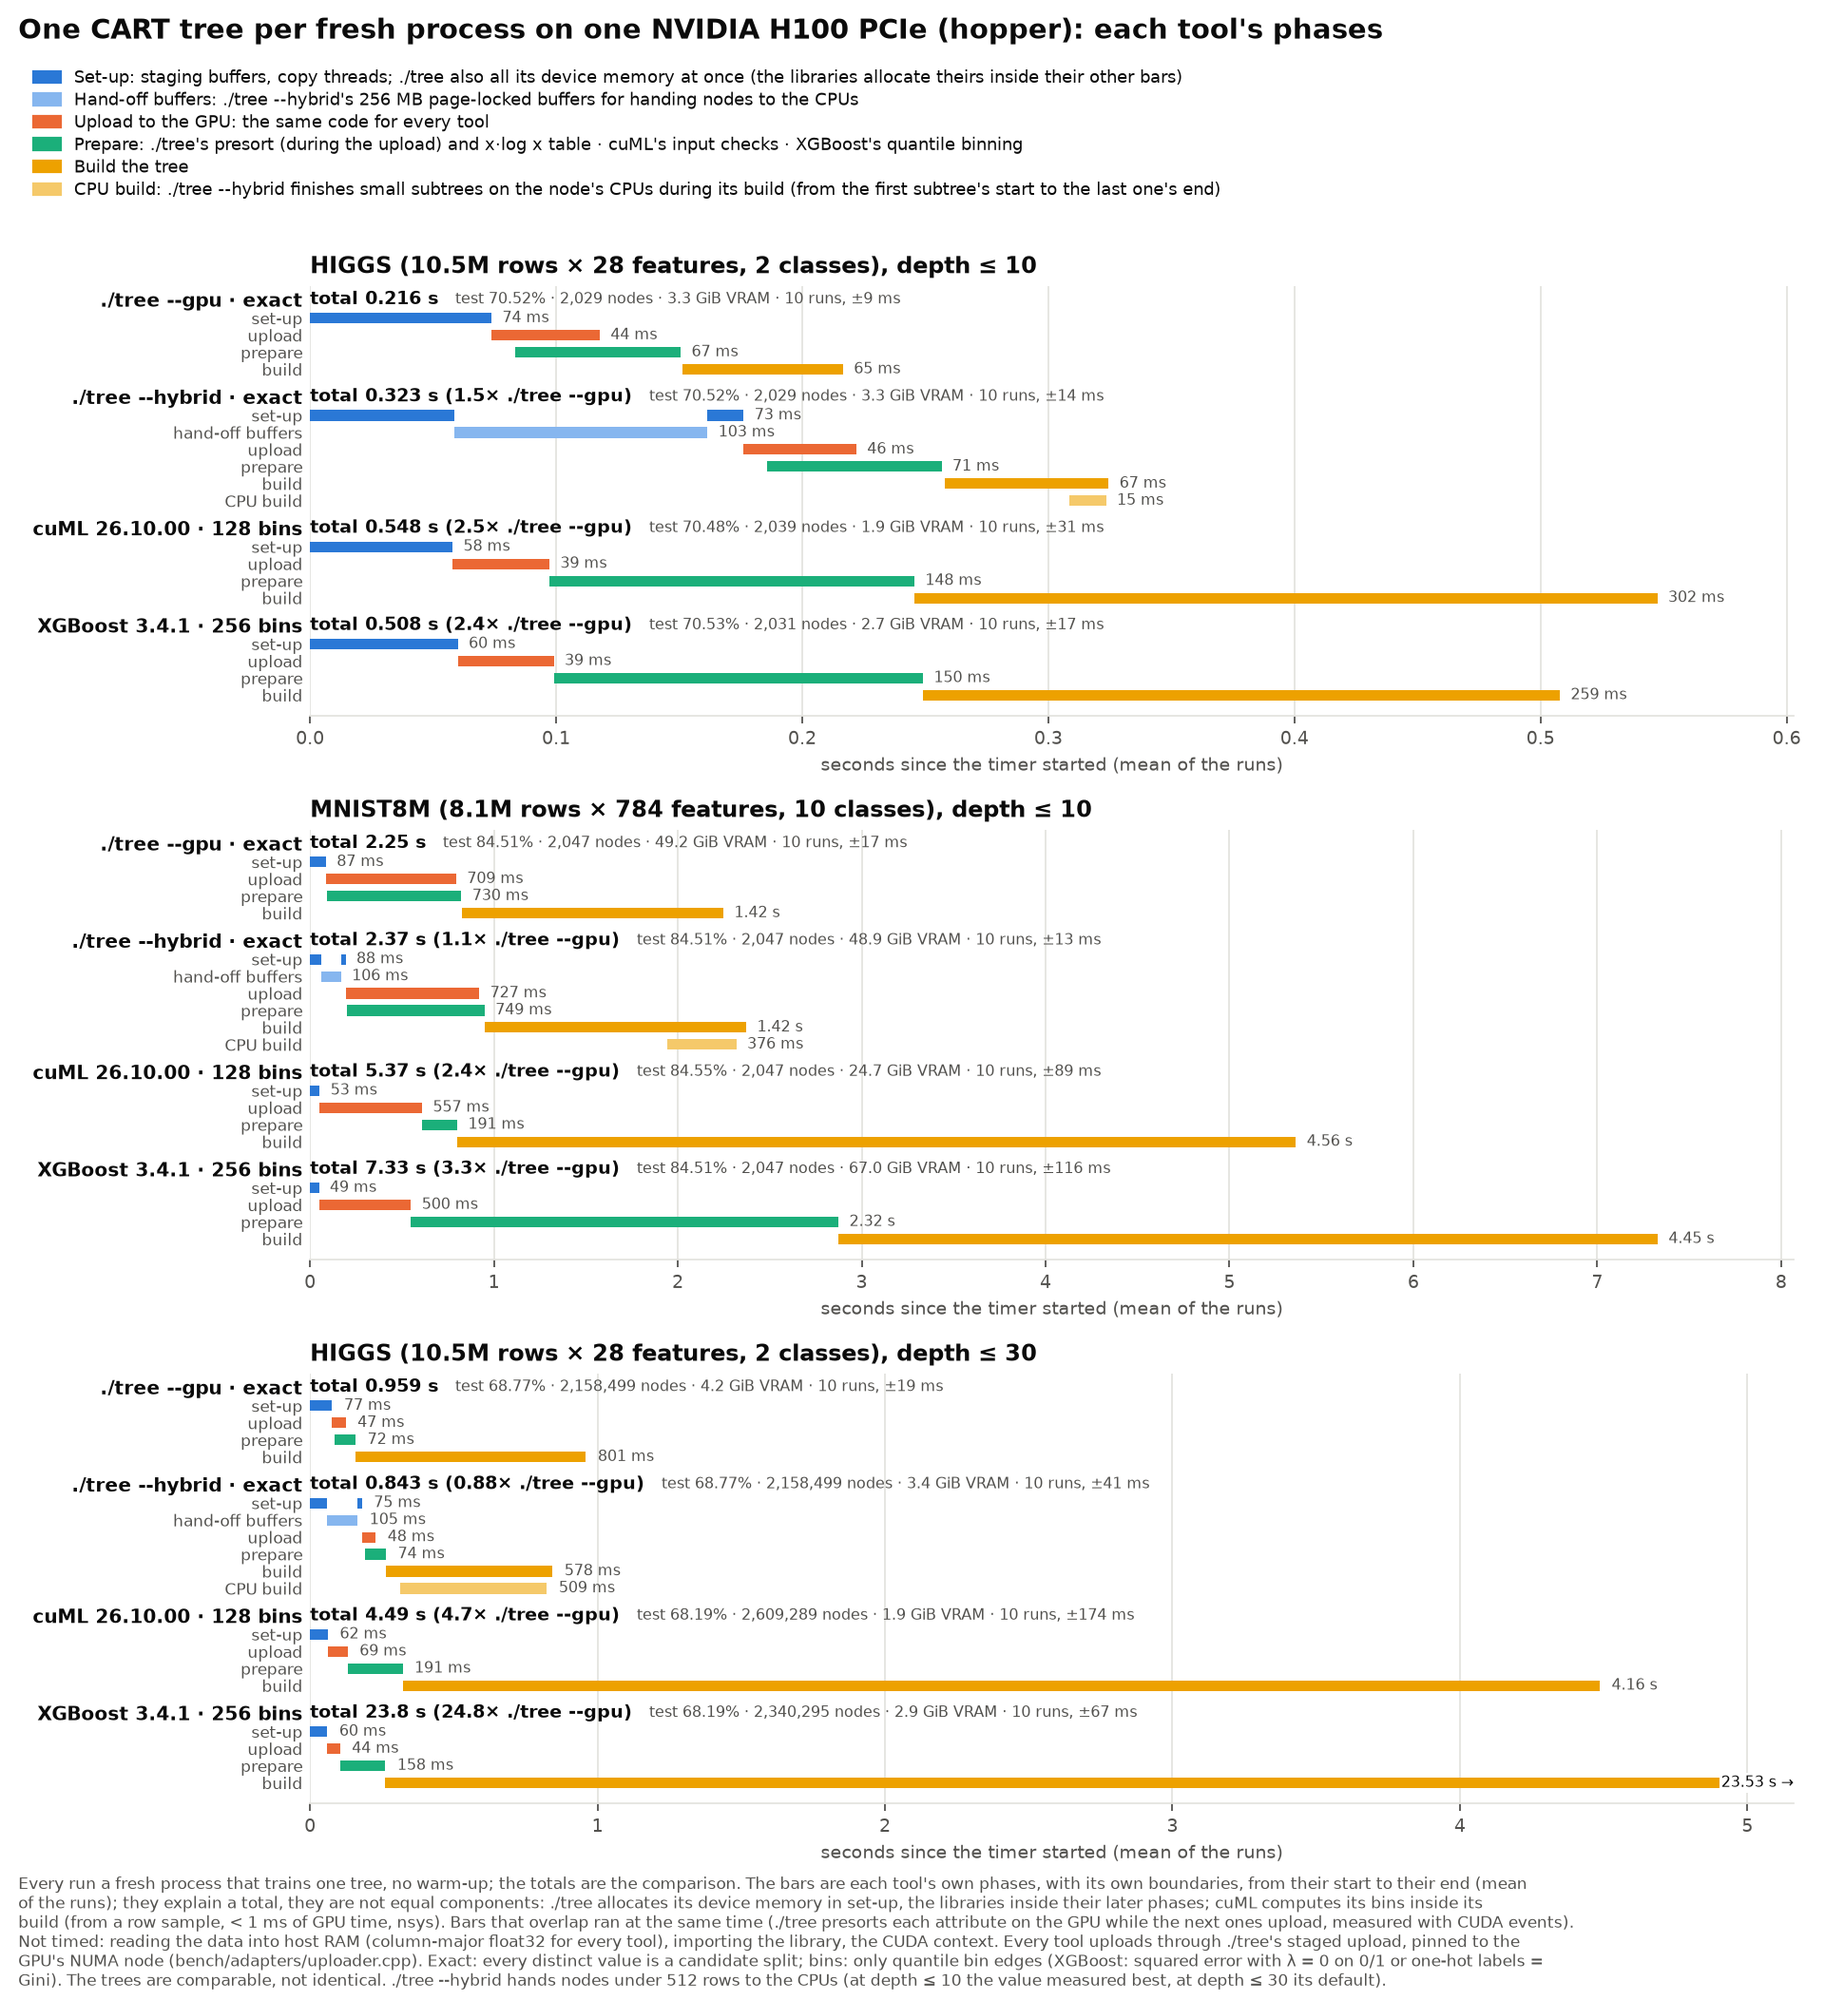
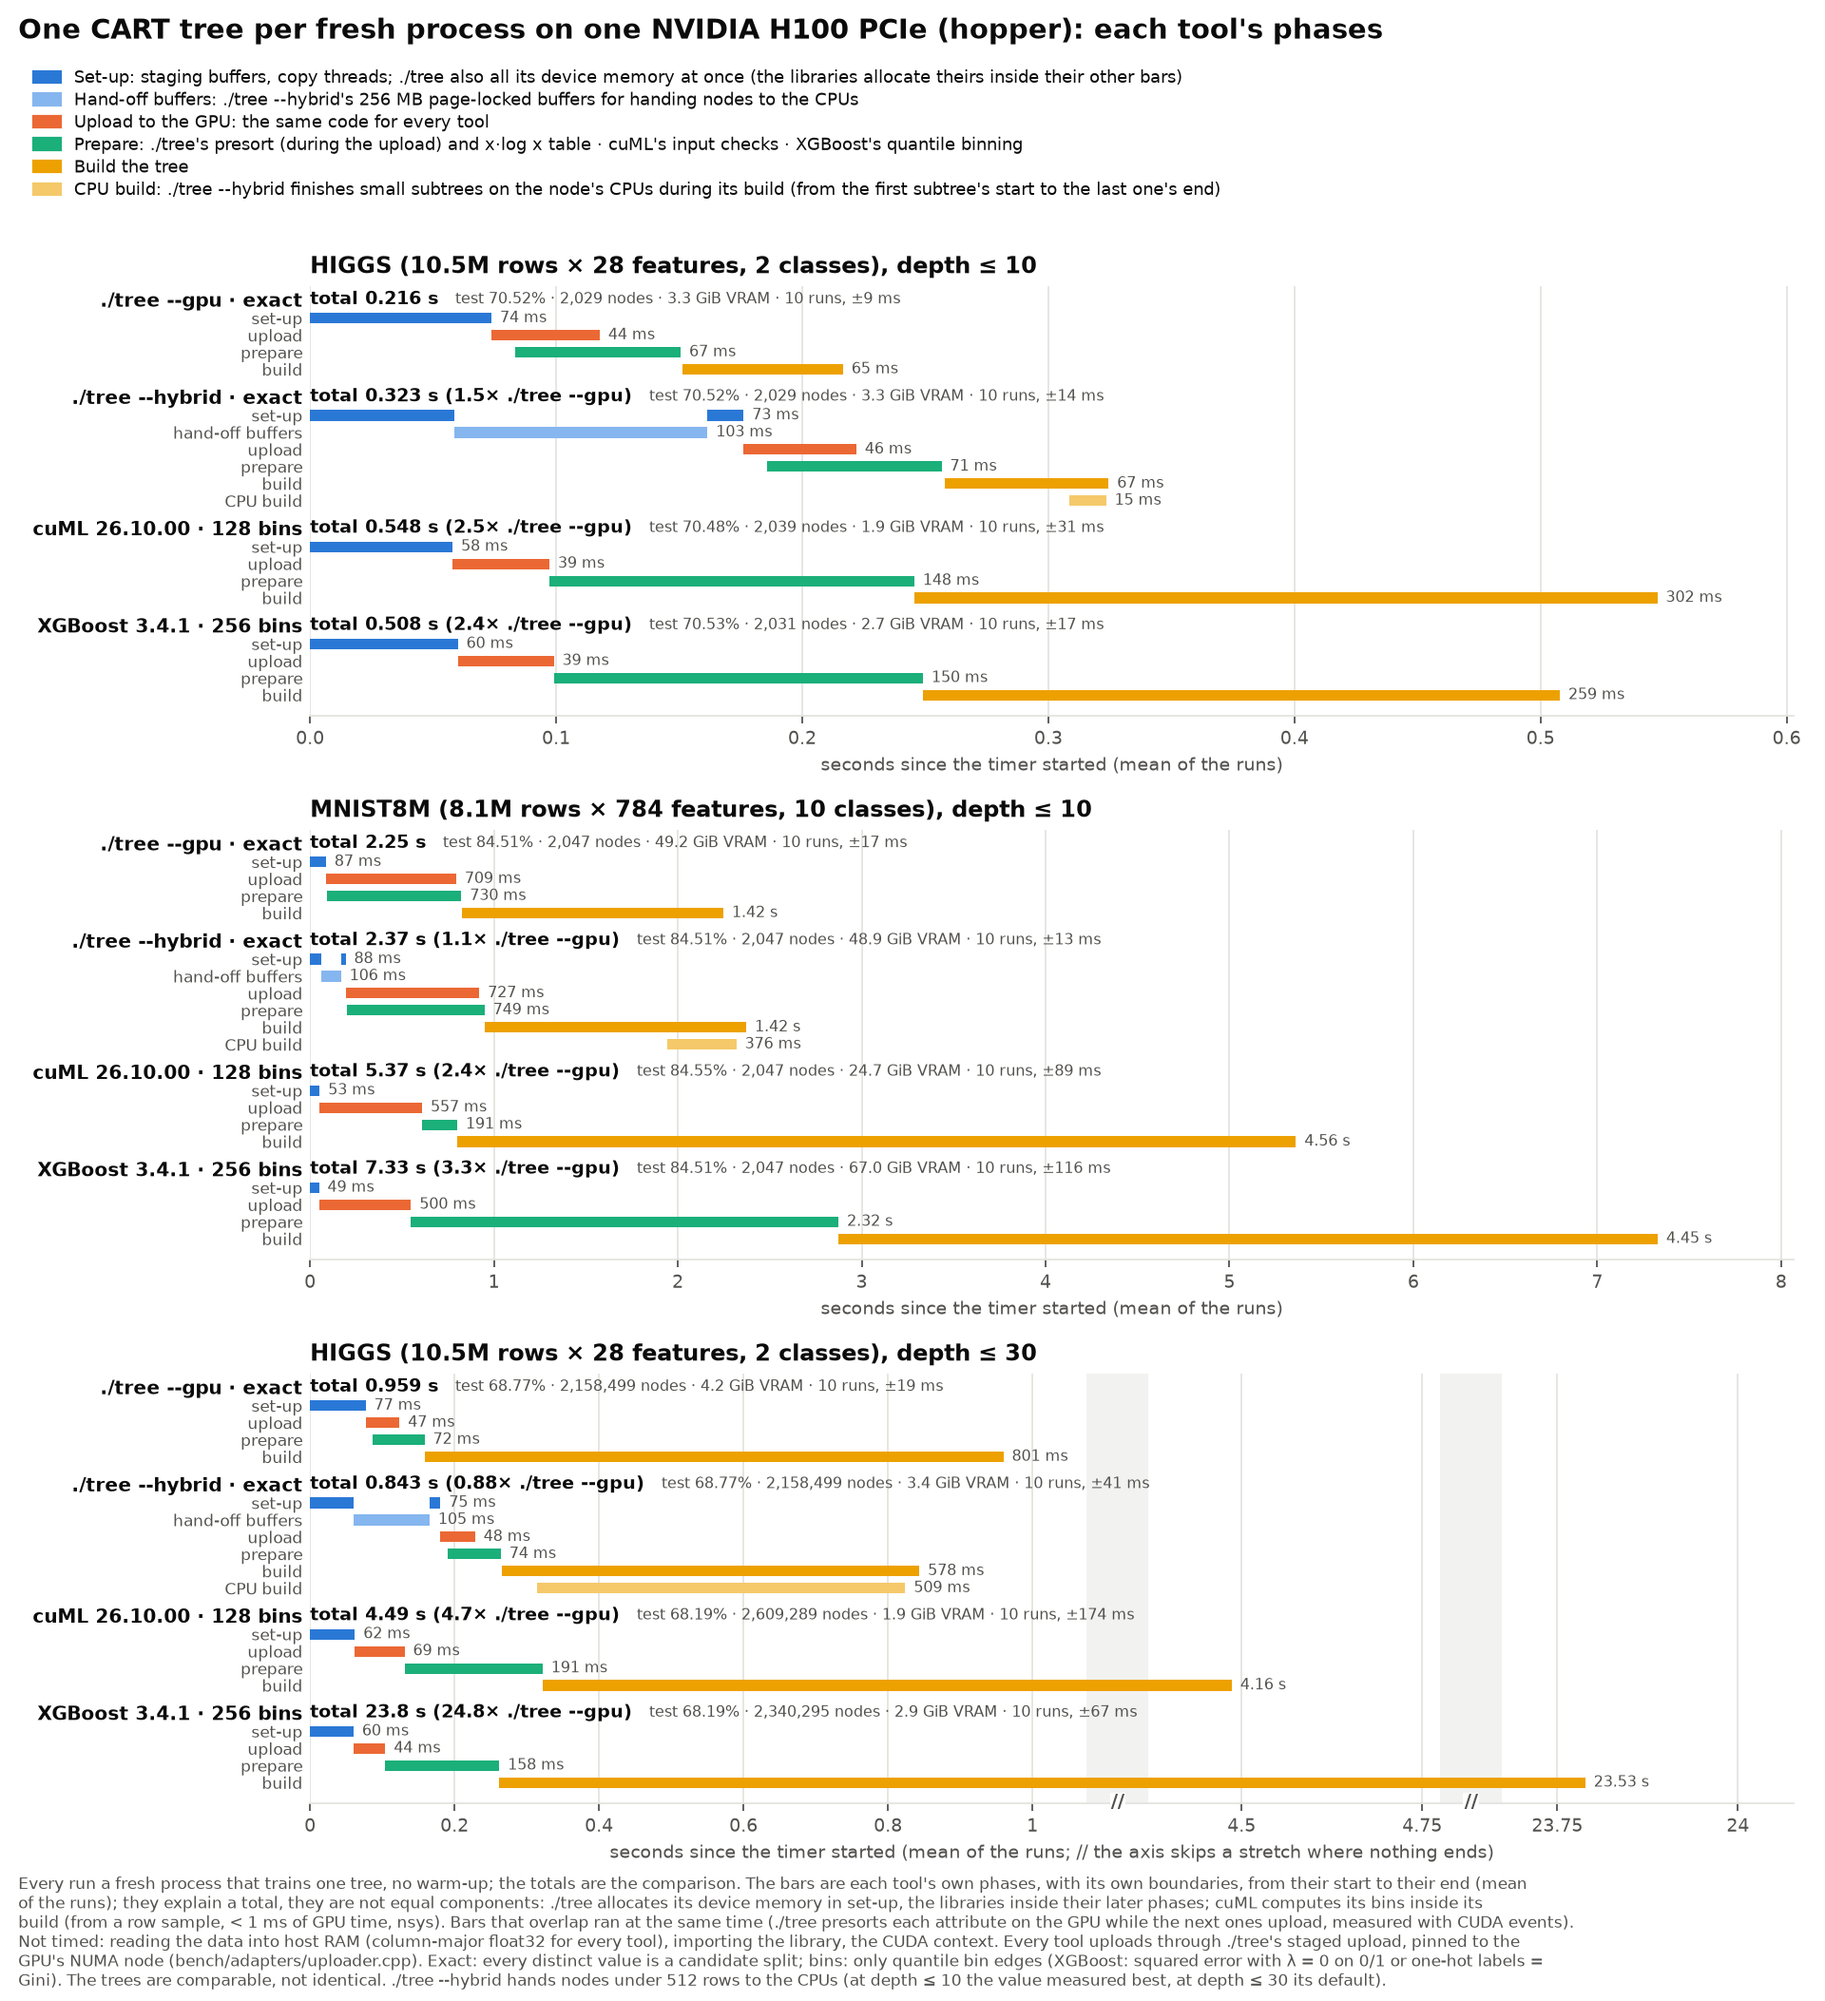
gpu_steps_chart.py: a broken axis instead of a cut one when a tool is far slower
The depth <= 30 panel shows ./tree's 0-1.1 s at full scale and short windows
around cuML's and XGBoost's ends, the empty stretches between them skipped (//).

diff --git a/bench/gpu_steps_chart.py b/bench/gpu_steps_chart.py
@@ -26,6 +26,8 @@ from pathlib import Path
 import matplotlib
 matplotlib.use("Agg")
 import matplotlib.pyplot as plt
+import numpy as np
+from matplotlib.ticker import MaxNLocator
 
 RESULTS = Path(__file__).resolve().parent / "results" / "cluster-gpu-vs-others"
 TOOLS = [("tree_gpu_only", "./tree --gpu"), ("tree_cuda", "./tree --hybrid"),
@@ -150,15 +152,58 @@ def lanes_of(tools):
     return out, y
 
 
+def windows_of(tools):
+    """The x ranges the axis shows, at one scale: everything if the slowest tool
+    is less than 4x ./tree's slowest; else ./tree's whole run, and around every
+    later moment something ends (a library's last phases), with the empty
+    stretches between them cut out of the axis."""
+    lead = max((t["mean"] for t in tools if t["impl"].startswith("tree")), default=0)
+    right = max(t["mean"] for t in tools)
+    if not lead or right <= 4 * lead:
+        return [(0.0, right * 1.1)]
+    events = sorted({x for t in tools for s in t["sections"] for seg in s["segments"] for x in seg}
+                    | {t["mean"] for t in tools})
+    clusters = [[0.0, lead]]
+    for x in events:
+        if x <= clusters[-1][1] + lead:  # close to the last one: the same window
+            clusters[-1][1] = max(clusters[-1][1], x)
+        else:
+            clusters.append([x, x])
+    out = [(0.0, clusters[0][1] + 0.12 * lead)]
+    out += [(lo - 0.12 * lead, hi + 0.3 * lead) for lo, hi in clusters[1:]]  # room for the label after the end
+    return out
+
+
+def axis_scale(ax, windows, gap):
+    """Draw the windows side by side, each cut-out stretch as `gap` seconds of axis."""
+    data, shown, x = [], [], 0.0
+    for i, (lo, hi) in enumerate(windows):
+        if i:
+            x += gap
+        data += [lo, hi]
+        shown += [x, x + hi - lo]
+        x += hi - lo
+    data = [data[0] - 1e6] + data + [data[-1] + 1e6]  # linear beyond the ends
+    shown = [shown[0] - 1e6] + shown + [shown[-1] + 1e6]
+    ax.set_xscale("function", functions=(lambda v: np.interp(v, data, shown), lambda v: np.interp(v, shown, data)))
+    ticks = []
+    for i, (lo, hi) in enumerate(windows):
+        ticks += [v for v in MaxNLocator(6 if i == 0 else 2).tick_values(lo, hi) if lo <= v <= hi]
+    ax.set_xticks(ticks, [f"{v:g}" for v in ticks])
+    for (_, hi), (lo, _) in zip(windows, windows[1:]):  # the cut: a pale band and a break mark on the axis
+        ax.axvspan(hi, lo, color=GRID, alpha=0.45, linewidth=0, zorder=0)
+        ax.text((hi + lo) / 2, 0, "//", transform=ax.get_xaxis_transform(), ha="center", va="center",
+                fontsize=9, color=MUTED, fontweight="bold", bbox={"facecolor": WHITE, "edgecolor": "none", "pad": 0.5})
+    ax.set_xlim(windows[0][0], windows[-1][1])
+    ax.set_xlabel("seconds since the timer started (mean of the runs; // the axis skips a stretch where nothing ends)")
+
+
 def draw(ax, tools):
     lanes, height = lanes_of(tools)
-    totals = sorted(t["mean"] for t in tools)
-    right = totals[-1]
-    clipped = len(totals) > 1 and totals[-1] > 2.5 * totals[-2]
-    if clipped:  # one tool far slower than the rest: cut the axis after the next one, its bar runs off it
-        right = totals[-2] * 1.15
+    windows = windows_of(tools)
+    span = windows[0][1]  # the first window's width sets the smallest bar
     ref = next((t["mean"] for t in tools if t["impl"] == "tree_gpu_only"), None)
-    min_width = right * 0.0025  # a section too short to see is drawn this wide
+    min_width = span * 0.0025 / 1.1  # a section too short to see is drawn this wide
     ticks, names = [], []
     for y, t, s in lanes:
         if s is None:  # the tool's header lane: its whole training, and its total
@@ -176,14 +221,9 @@ def draw(ax, tools):
         colour = CATEGORIES[s["name"]][0]
         label = s["name"]
         for start, end in s["segments"]:
-            width = max(min(end, right) - start, min_width)
-            ax.barh(y, width, left=start, height=BAR, color=colour, linewidth=0)
-        text = duration(s["seconds"])
-        if end > right:  # runs off the cut axis
-            ax.text(right, y, f"{text} →", va="center", ha="right", fontsize=7, color=INK,
-                    bbox={"facecolor": WHITE, "edgecolor": "none", "pad": 1})
-        else:
-            ax.text(start + width + right * 0.008, y, text, va="center", fontsize=7, color=MUTED)
+            ax.barh(y, max(end - start, min_width), left=start, height=BAR, color=colour, linewidth=0)
+        ax.annotate(duration(s["seconds"]), xy=(max(end, start + min_width), y), xytext=(4, 0),
+                    textcoords="offset points", va="center", fontsize=7, color=MUTED)
         ticks.append(y)
         names.append(label)
     ax.set_yticks(ticks, names)
@@ -192,9 +232,10 @@ def draw(ax, tools):
         tick.set_color(MUTED if s else INK)
         tick.set_fontweight("normal" if s else "bold")
     ax.set_ylim(height - GAP + 0.2, -0.8)
-    ax.set_xlim(0, right if clipped else right * 1.1)
-    if clipped:
-        ax.spines["bottom"].set_bounds(0, right)
+    if len(windows) > 1:
+        axis_scale(ax, windows, gap=0.08 * span)
+    else:
+        ax.set_xlim(*windows[0])
 
 
 def facts(t):
@@ -255,8 +296,8 @@ def main():
                              gridspec_kw={"height_ratios": heights})
     for ax, (panel, tools) in zip(axes[:, 0], grid):
         dataset, depth = panel_of(panel)
-        draw(ax, tools)
         style(ax, f"{TITLES.get(dataset, dataset)}, depth ≤ {depth}")
+        draw(ax, tools)
     gpu = grid[0][1][0]["gpu"]
     fig.suptitle(f"One CART tree per fresh process on one {gpu} ({args.node}): each tool's phases",
                  x=0.01, y=1 - 0.12 / fig.get_figheight(), ha="left", fontsize=13, color=INK, fontweight="bold")

diff --git a/bench/results/cluster-gpu-vs-others/BENCHMARK.md b/bench/results/cluster-gpu-vs-others/BENCHMARK.md
@@ -48,7 +48,7 @@ bench/cluster/charts.sh             # among them gpu_steps_chart.py: chart.png, 
 | build | 824–2,248 | 951–2,373 | 801–5,362 | 2,874–7,329 |
 | CPU build (subtrees) | | 1,943–2,318 | | |
 
-**The chart** draws the same phase names for every tool, each with that tool's boundaries: set-up, upload, prepare, build; `--hybrid` also its hand-off buffers (the whole difference between `--hybrid` and `--gpu`) and its CPU build. ./tree's sections are merged into them: set-up = staging buffers + device memory; prepare = the presort + the x·log x table and its copy. A phase in pieces that do not touch (`--hybrid`'s set-up, before and after its hand-off buffers) is drawn in pieces, labelled with their sum.
+**The chart** draws the same phase names for every tool, each with that tool's boundaries: set-up, upload, prepare, build; `--hybrid` also its hand-off buffers (the whole difference between `--hybrid` and `--gpu`) and its CPU build. ./tree's sections are merged into them: set-up = staging buffers + device memory; prepare = the presort + the x·log x table and its copy. A phase in pieces that do not touch (`--hybrid`'s set-up, before and after its hand-off buffers) is drawn in pieces, labelled with their sum. The depth ≤ 30 panel's axis skips the stretches where nothing ends (marked //, shaded): 0–1.1 s at full scale, then short windows around cuML's end (4.5 s) and XGBoost's (23.8 s).
 
 - **Totals:** `./tree --gpu` trains its exact tree 2.4–2.5× faster than cuML and 2.4–3.3× faster than XGBoost, from the same host data through the same upload. The libraries' upload reaches 46–51 GB/s on MNIST8M (HIGGS's 1.2 GB is too short a copy for full speed).
 - **Where the time goes:** most of the libraries' time is in their build (cuML 302 ms and 4.56 s, XGBoost 259 ms and 4.45 s, against ./tree's 65 ms and 1.42 s) and in XGBoost's binning. These phases are not like for like: cuML's build also allocates its working memory, and ./tree's build starts from columns already presorted.
